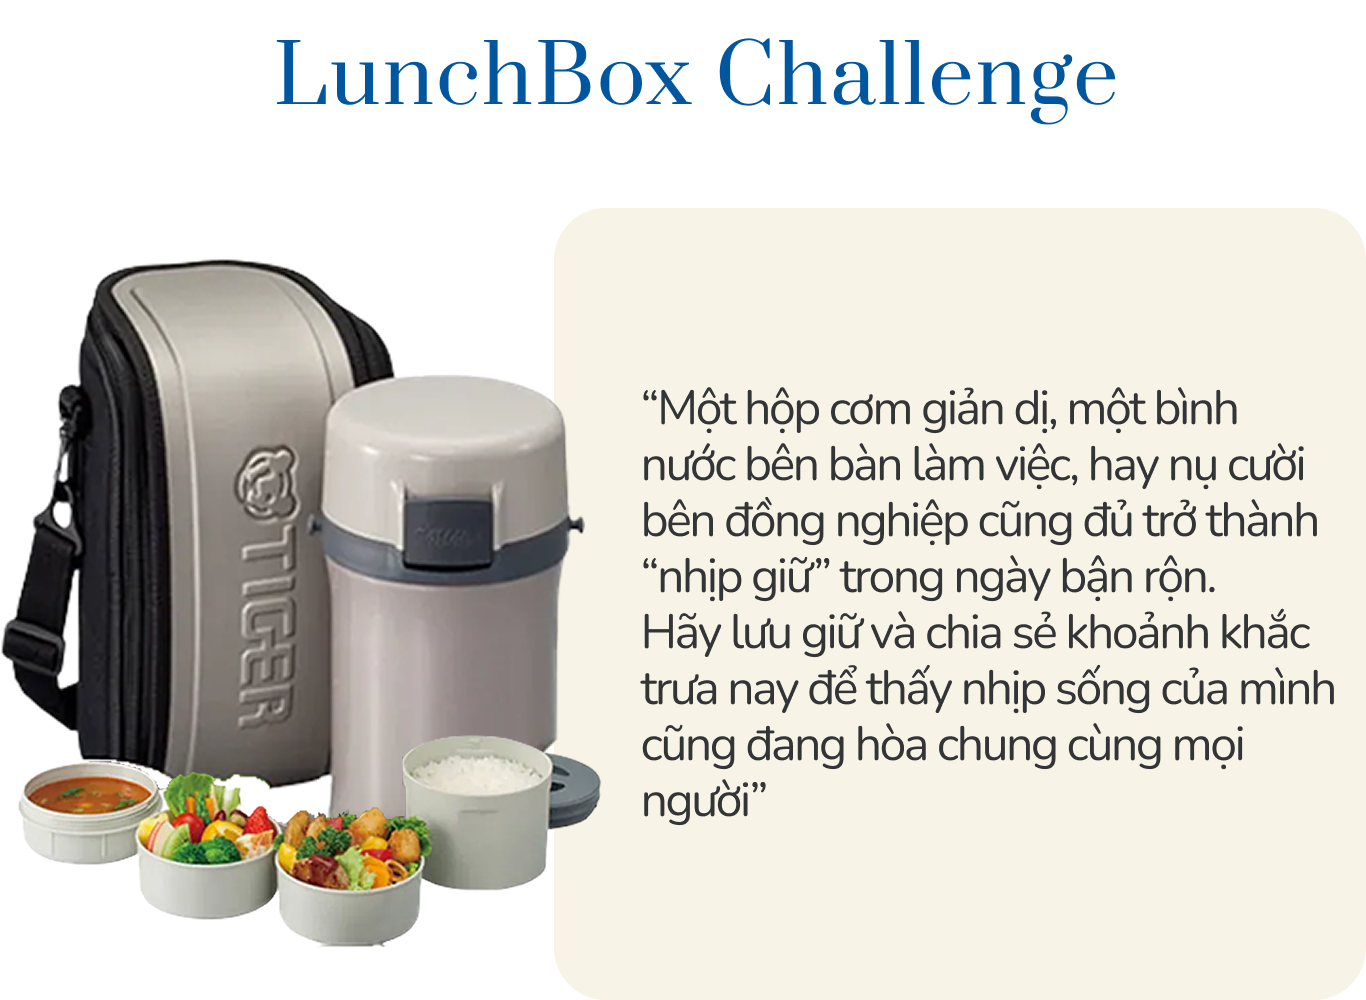
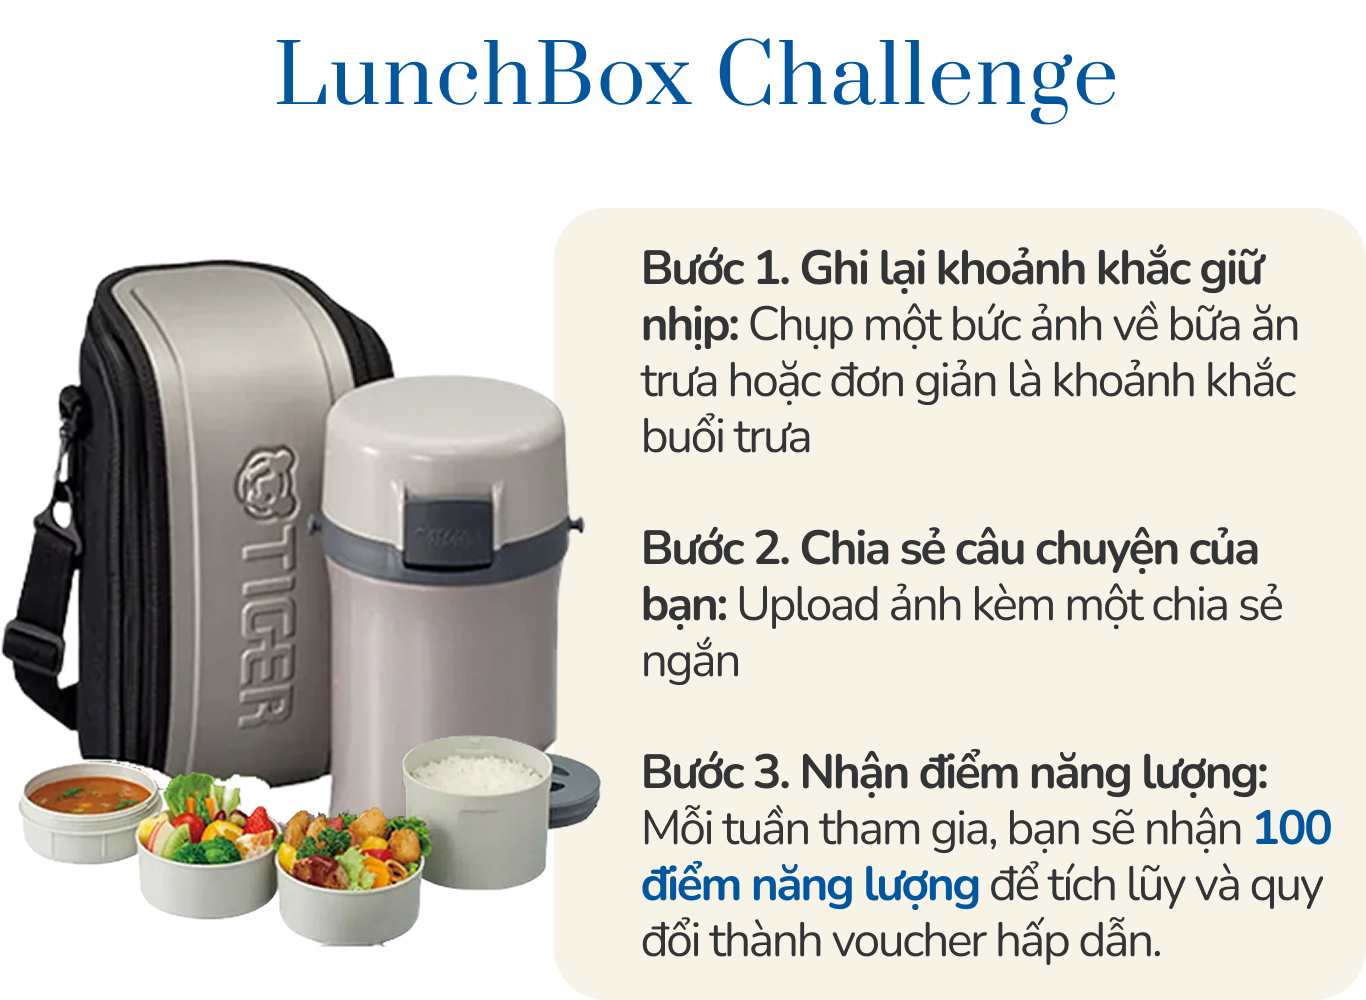
feat: replace SVG images with PNGs in ChallengeCardsSection and add new note image for improved visual consistency

Changed region(s): [[0.4612, 0.372, 0.9839, 0.961], [0.4612, 0.248, 0.9531, 0.341]]

diff --git a/src/app/thu-thach-giu-nhip/components/ChallengeCardsSection.tsx b/src/app/thu-thach-giu-nhip/components/ChallengeCardsSection.tsx
@@ -56,7 +56,7 @@ export function ChallengeCardsSection() {
           {/* Mobile Image */}
           {/* eslint-disable-next-line @next/next/no-img-element */}
           <img
-            src="/thuthachnhipsong/lunchbox_challenge_mobile.svg"
+            src="/thuthachnhipsong/lunchbox_challenge_mobile.png"
             alt="LunchBox Challenge"
             className="object-contain md:hidden w-full h-full"
             fetchPriority="high"
@@ -84,7 +84,7 @@ export function ChallengeCardsSection() {
           {/* Mobile Image */}
           {/* eslint-disable-next-line @next/next/no-img-element */}
           <img
-            src="/thuthachnhipsong/note_giu_nhip_mobile.svg"
+            src="/thuthachnhipsong/note_giu_nhip_mobile.png"
             alt="Note Giữ Nhịp"
             className="w-full h-full object-contain md:hidden"
             fetchPriority="high"
